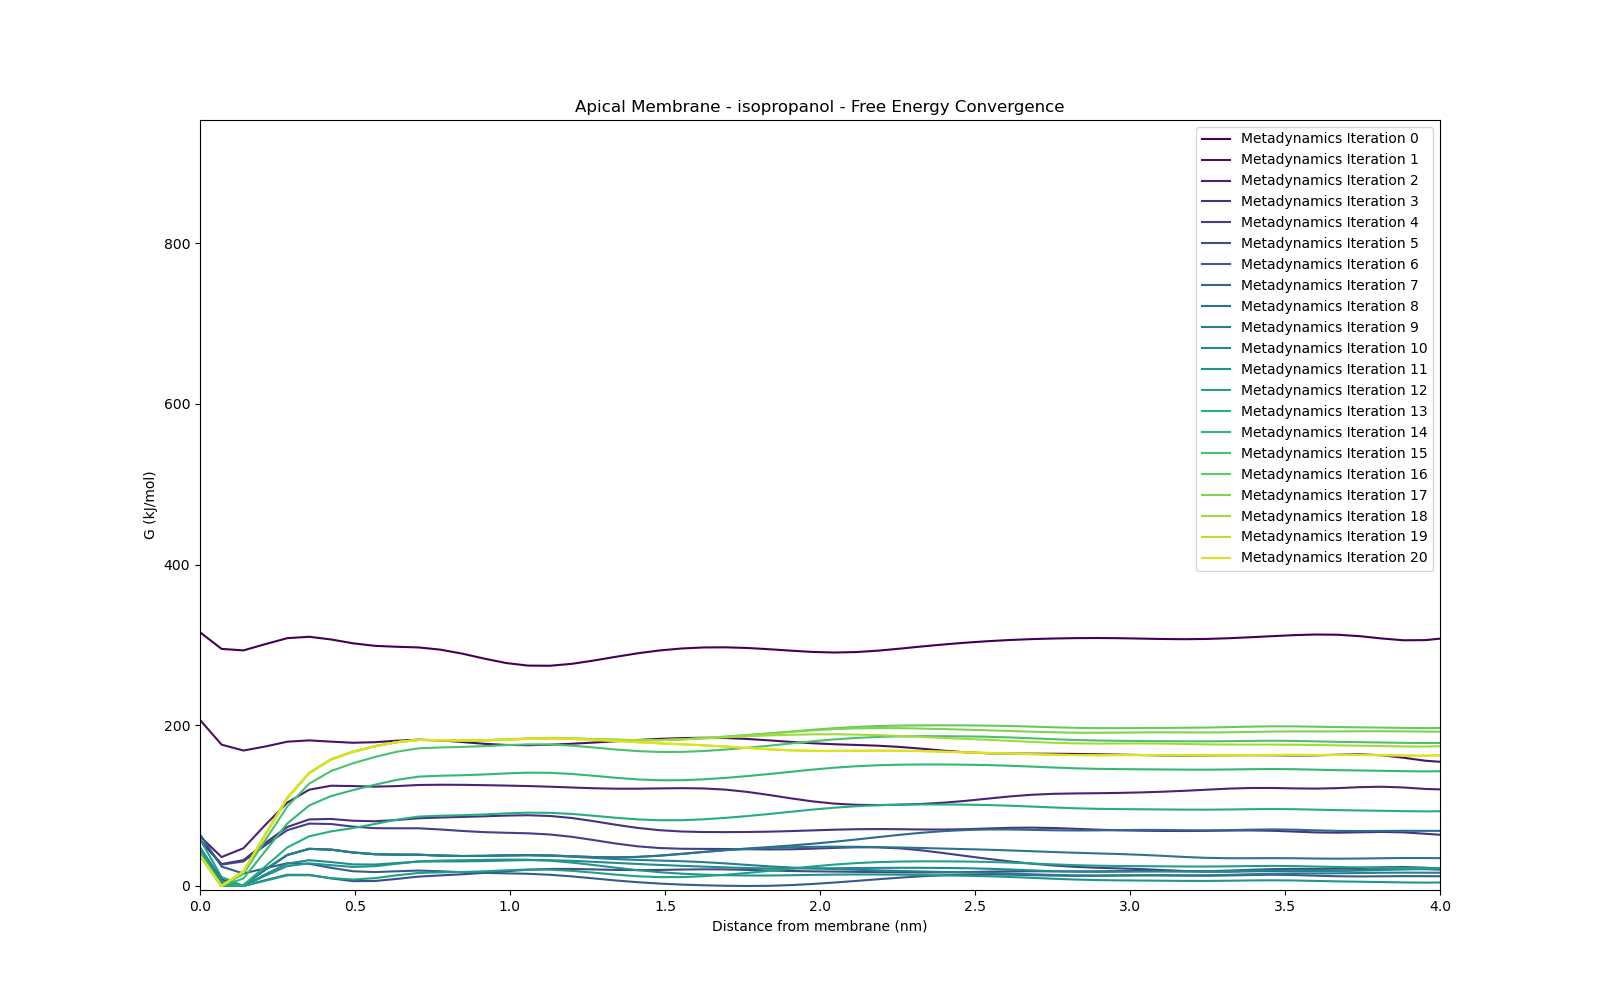
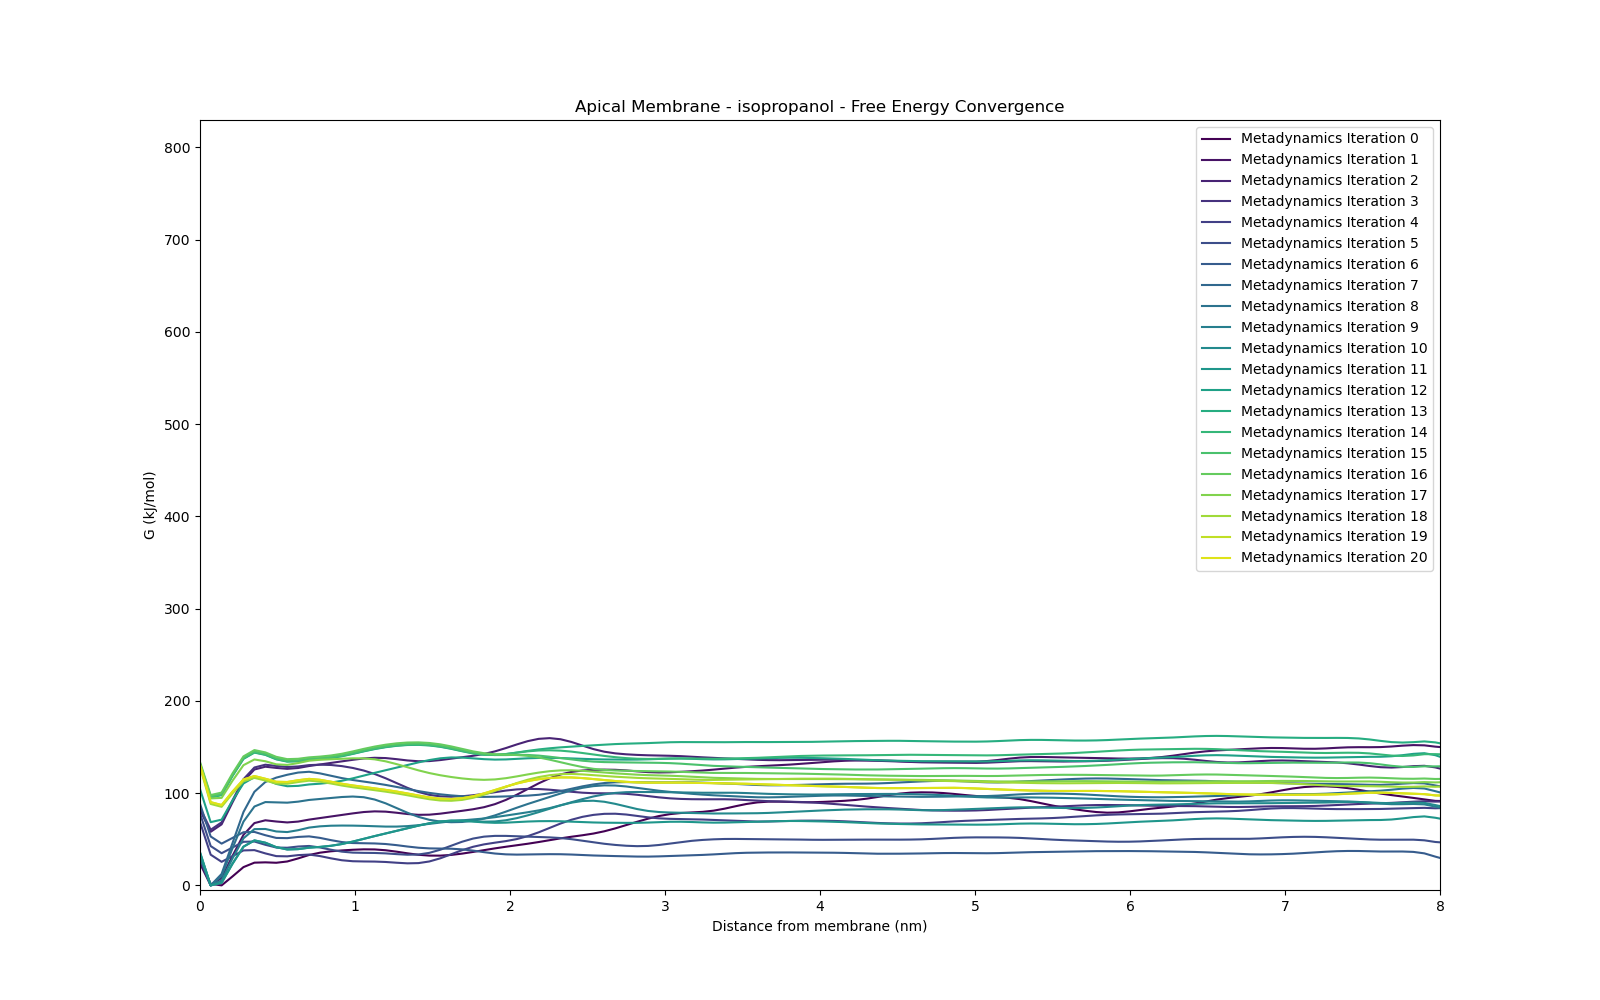
Redo plotting

diff --git a/common/plotting/plot_fe.py b/common/plotting/plot_fe.py
@@ -25,9 +25,9 @@ def plot_fe(args):
             names=['d_abs', 'G', 'dG']
             )
         # Remove out of bounds data
-        data = data[(data['d_abs'] > 0) * (data['d_abs'] < 4)]
+        data = data[(data['d_abs'] > 0) * (data['d_abs'] < 8)]
         # We should shift the zero point of the free energy to the value in the water
-        zero_point = data['G'][data['d_abs'] > 3.0].mean()
+        zero_point = data['G'][data['d_abs'] > 7.0].mean()
         data['G'] -= zero_point
         plt.plot(data['d_abs'], data['G'], label=name)
 
@@ -40,8 +40,8 @@ def plot_fe(args):
 # If no arguments are provided, use our hardcoded values
 if len(sys.argv) == 1:
     membranes = [
-        ('Apical Membrane', '../../apical/charmm-gui-2960669761-charmm36-nacl/gromacs/', './apical'),
-        ('Basolateral Membrane', '../../basolateral/charmm-gui-2960967181-nacl-charmm36/gromacs/', './basolateral')]
+        ('Apical Membrane', '../../apical/charmm-gui-3989364611/gromacs/', './apical'),
+        ('Basolateral Membrane', '../../basolateral/charmm-gui-3989651295/gromacs/', './basolateral')]
     molecules = ['trihexyphenidyl', 'isopropanol', 'caffeine', 'morphine-6-glucuronide', 'sucrose']
     
     for membrane_name, membrane_fn, out_fn in membranes:

diff --git a/common/plotting/plot_correlation.py b/common/plotting/plot_correlation.py
@@ -7,8 +7,8 @@ import matplotlib.pyplot as plt
 # But it's fine for now and this is the fastest way to get it done
 
 membranes = [
-        ('Apical Membrane', '../../apical/charmm-gui-2960669761-charmm36-nacl/gromacs/'),
-        ('Basolateral Membrane', '../../basolateral/charmm-gui-2960967181-nacl-charmm36/gromacs/')]
+        ('Apical Membrane', '../../apical/charmm-gui-3989364611/gromacs/', './apical'),
+        ('Basolateral Membrane', '../../basolateral/charmm-gui-3989651295/gromacs/', './basolateral')]
 molecules = {
     'trihexyphenidyl': 1.32,
     'isopropanol': -0.1,
@@ -26,9 +26,9 @@ for molecule in molecules:
         names=['z', 'G', 'dG']
         )
     # Remove out of bounds data
-    data = data[(data['z'] > 0) * (data['z'] < 4)]
+    data = data[(data['z'] > 0) * (data['z'] < 8)]
     # We should shift the zero point of the free energy to the value in the water
-    zero_point = data['G'][data['z'] > 3.0].mean()
+    zero_point = data['G'][data['z'] > 7.0].mean()
     data['G'] -= zero_point
 
     if molecule not in apical_barriers:

diff --git a/common/plotting/plot_convergence.py b/common/plotting/plot_convergence.py
@@ -28,7 +28,7 @@ def main(args):
         plt.plot(data['z'], data['G'], label=f'Metadynamics Iteration {idx}', color=cmap(idx / args.max_idx))
     plt.xlabel('Distance from membrane (nm)')
     plt.ylabel('G (kJ/mol)')
-    plt.xlim(0, 4)
+    plt.xlim(0, 8)
     plt.ylim(-5, None)
     plt.legend()
     plt.title(args.title)
@@ -36,8 +36,8 @@ def main(args):
 
 if len(sys.argv) == 1:
     membranes = [
-        ('Apical Membrane', '../../apical/charmm-gui-2960669761-charmm36-nacl/gromacs/', './apical'),
-        ('Basolateral Membrane', '../../basolateral/charmm-gui-2960967181-nacl-charmm36/gromacs/', './basolateral')]
+        ('Apical Membrane', '../../apical/charmm-gui-3989364611/gromacs/', './apical'),
+        ('Basolateral Membrane', '../../basolateral/charmm-gui-3989651295/gromacs/', './basolateral')]
     molecules = ['trihexyphenidyl', 'isopropanol', 'caffeine', 'morphine-6-glucuronide', 'sucrose']
     
     for membrane_name, membrane_fn, out_fn in membranes:
